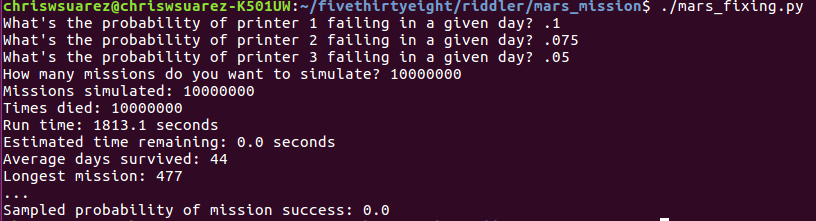
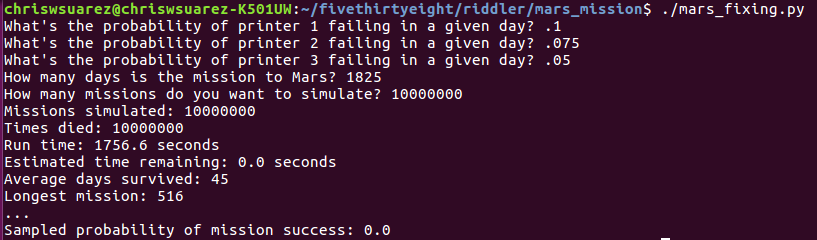
Added new simulation and adjusted code

Changed region(s): [[0.0, 0.0, 1.0, 0.8416], [0.0, 0.8688, 0.4902, 1.0], [0.7966, 0.9774, 0.8272, 1.0]]

diff --git a/riddler/mars_mission/mars_fixing.py b/riddler/mars_mission/mars_fixing.py
@@ -10,7 +10,7 @@ def equipment_failure_simulator(p1, p2, p3, mission_length):
 	p_fail = [p1, p2, p3]
 	failed = [numpy.random.binomial(1,p) for p in p_fail]
 
-	for day_no in range(0, mission_length):
+	for day_no in range(1, mission_length+1):
 
 		if failed.count(1) == 3:
 			return [False, day_no]
